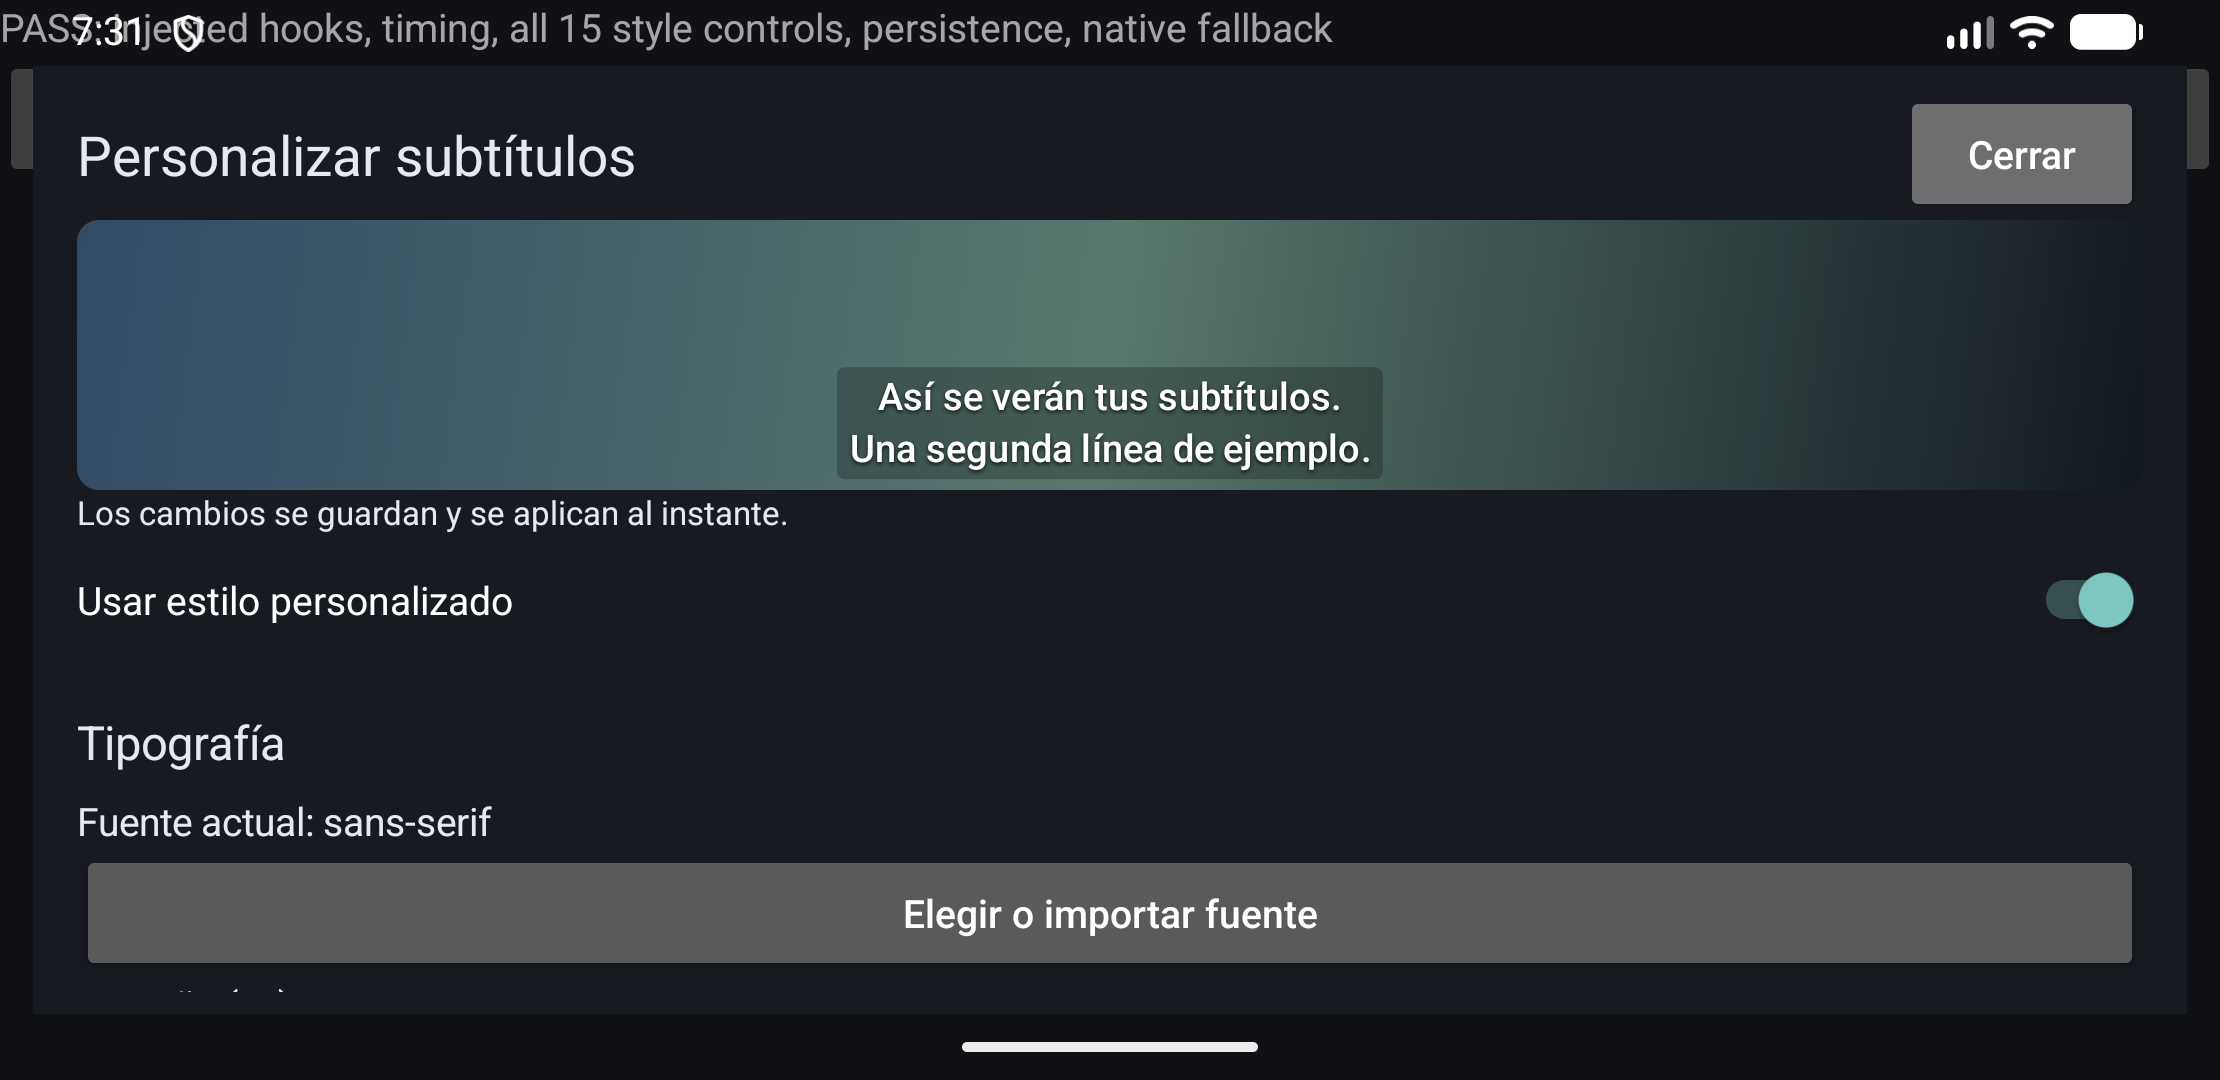
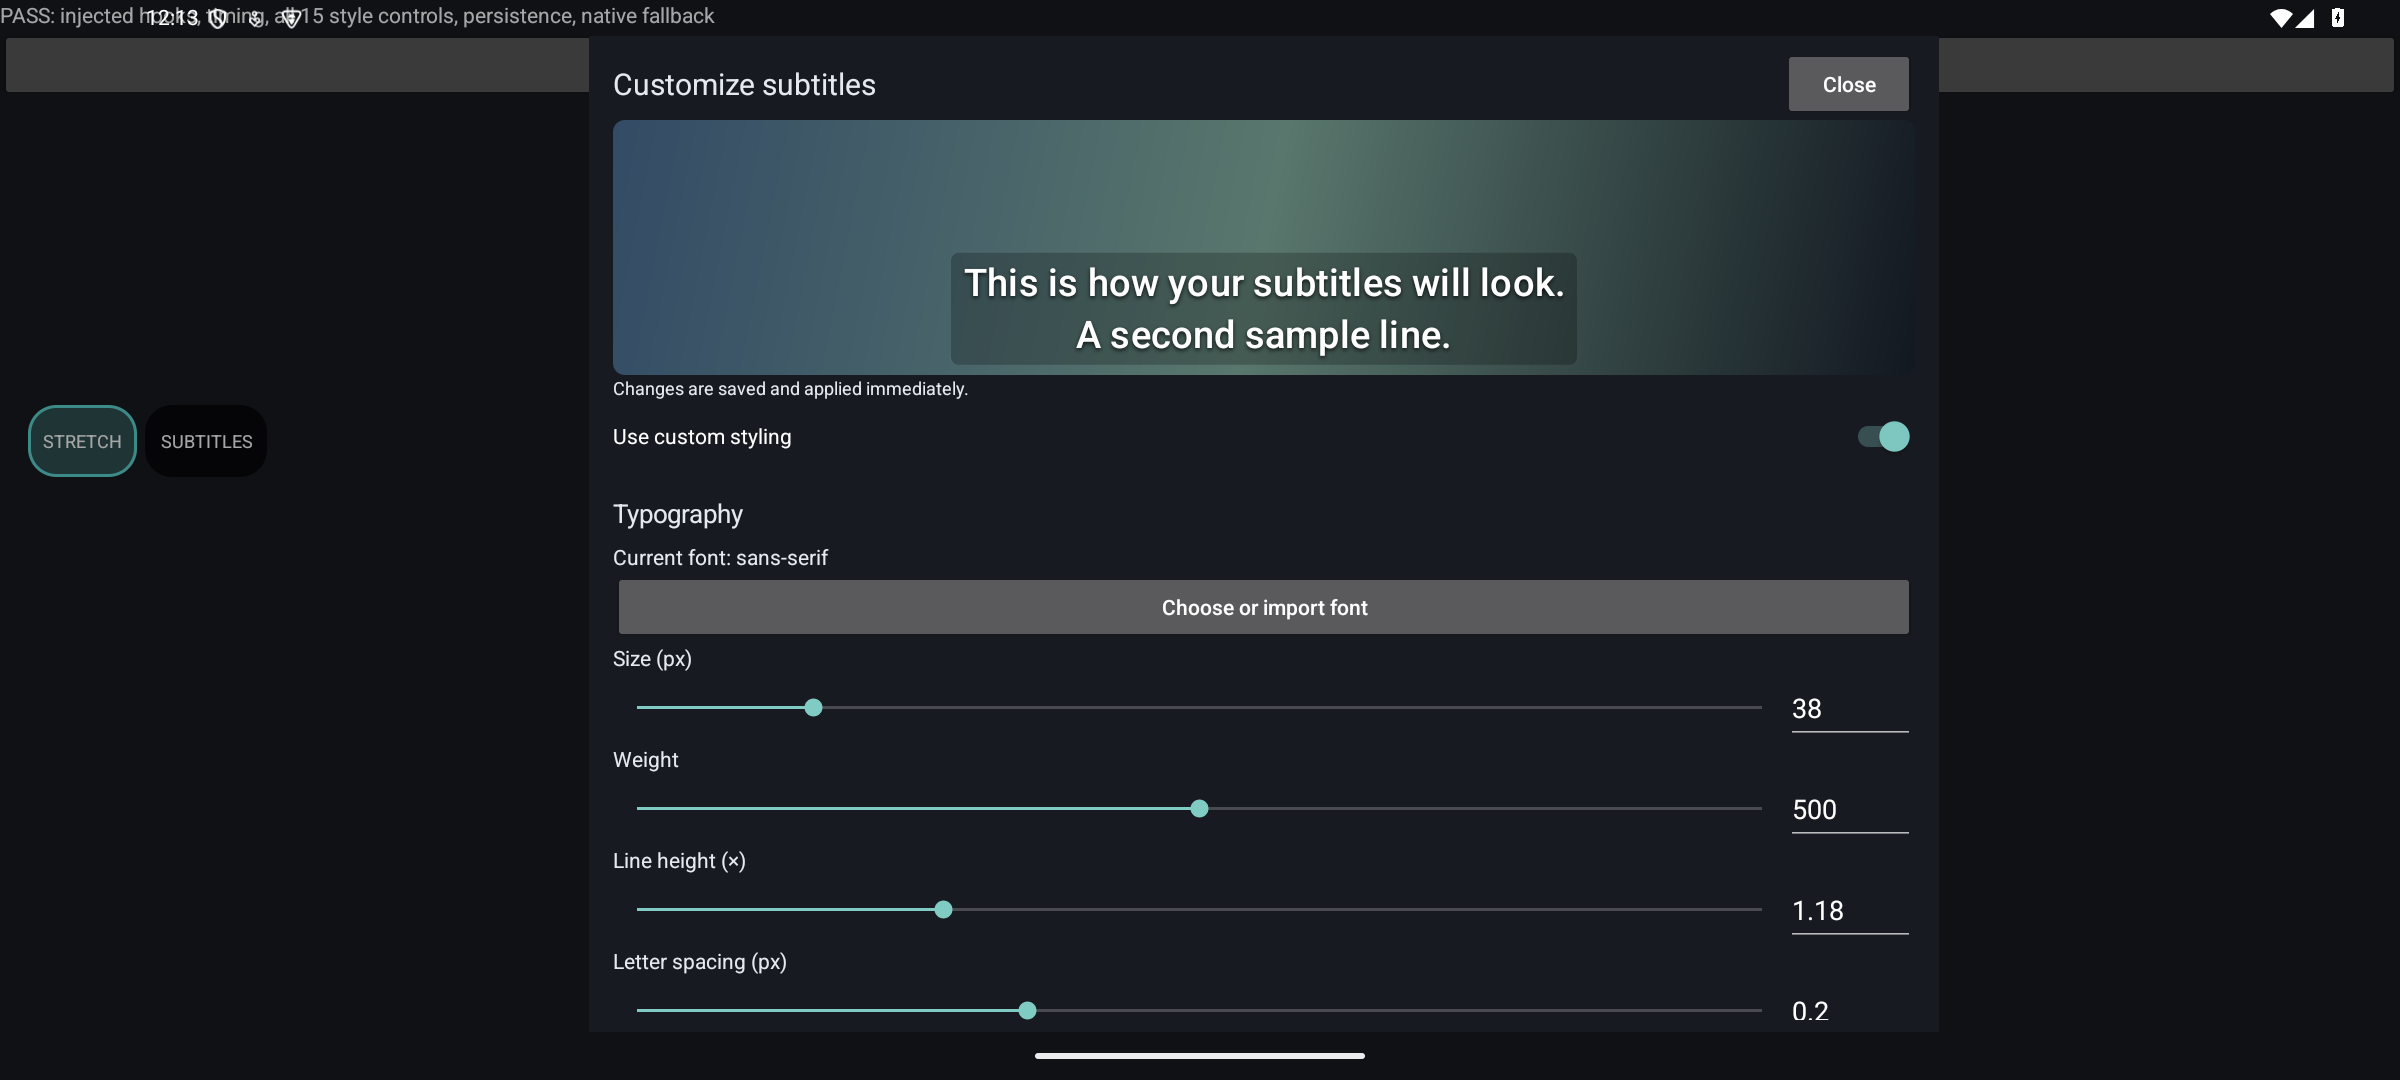
docs: add English screenshots and generated patch metadata

diff --git a/extensions/extension/src/main/java/app/aimal/extension/streaming/ControlPanel.java b/extensions/extension/src/main/java/app/aimal/extension/streaming/ControlPanel.java
@@ -331,5 +331,3 @@ final class ControlPanel extends LinearLayout {
                 TypedValue.COMPLEX_UNIT_DIP, value, getResources().getDisplayMetrics());
     }
 }
-
-

diff --git a/extensions/extension/src/main/java/app/aimal/extension/crunchyroll/AspectRatioHelper.java b/extensions/extension/src/main/java/app/aimal/extension/crunchyroll/AspectRatioHelper.java
@@ -239,4 +239,3 @@ public final class AspectRatioHelper {
                 TypedValue.COMPLEX_UNIT_DIP, dp, ctx.getResources().getDisplayMetrics());
     }
 }
-

diff --git a/extensions/extension/src/main/java/app/aimal/extension/streaming/Controls.java b/extensions/extension/src/main/java/app/aimal/extension/streaming/Controls.java
@@ -204,4 +204,3 @@ public final class Controls {
         }
     }
 }
-

diff --git a/README.md b/README.md
@@ -57,7 +57,7 @@ merge them for you.
 ## Patches list
 
 <!-- PATCHES_START EXPANDED -->
-> **[v1.3.2](https://github.com/hashtagbasit/aimal-patches/releases/tag/v1.3.2)**&nbsp;&nbsp;•&nbsp;&nbsp;`main`&nbsp;&nbsp;•&nbsp;&nbsp;9 patches total
+> **[v1.1.0](https://github.com/hashtagbasit/aimal-patches/releases/tag/v1.1.0)**&nbsp;&nbsp;•&nbsp;&nbsp;`dev`&nbsp;&nbsp;•&nbsp;&nbsp;9 patches total
 <details open>
 <summary>📦 Crunchyroll&nbsp;&nbsp;•&nbsp;&nbsp;4 patches</summary>
 <br>
